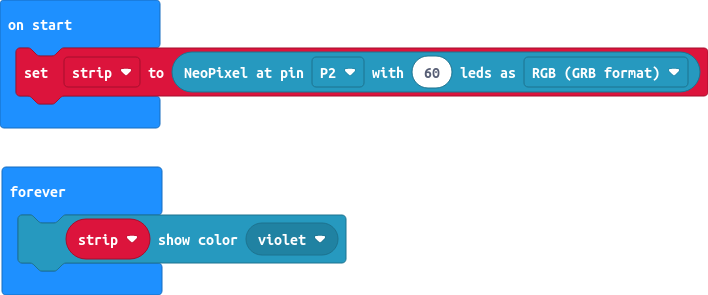
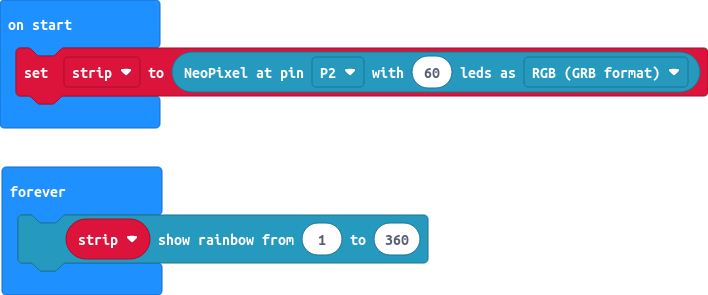
change color to static rainbow

Changed region(s): [[0.2797, 0.7017, 0.6215, 0.9153]]

diff --git a/main.ts b/main.ts
@@ -1,4 +1,4 @@
 let strip = neopixel.create(DigitalPin.P2, 60, NeoPixelMode.RGB)
 basic.forever(function () {
-    strip.showColor(neopixel.colors(NeoPixelColors.Violet))
+    strip.showRainbow(1, 360)
 })
